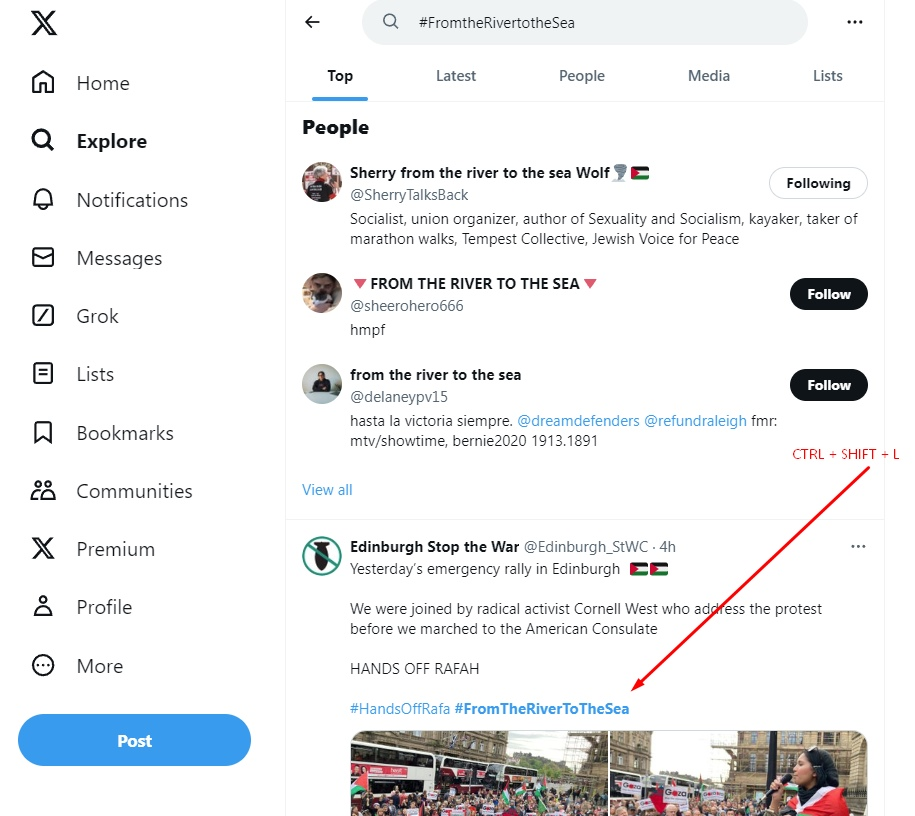
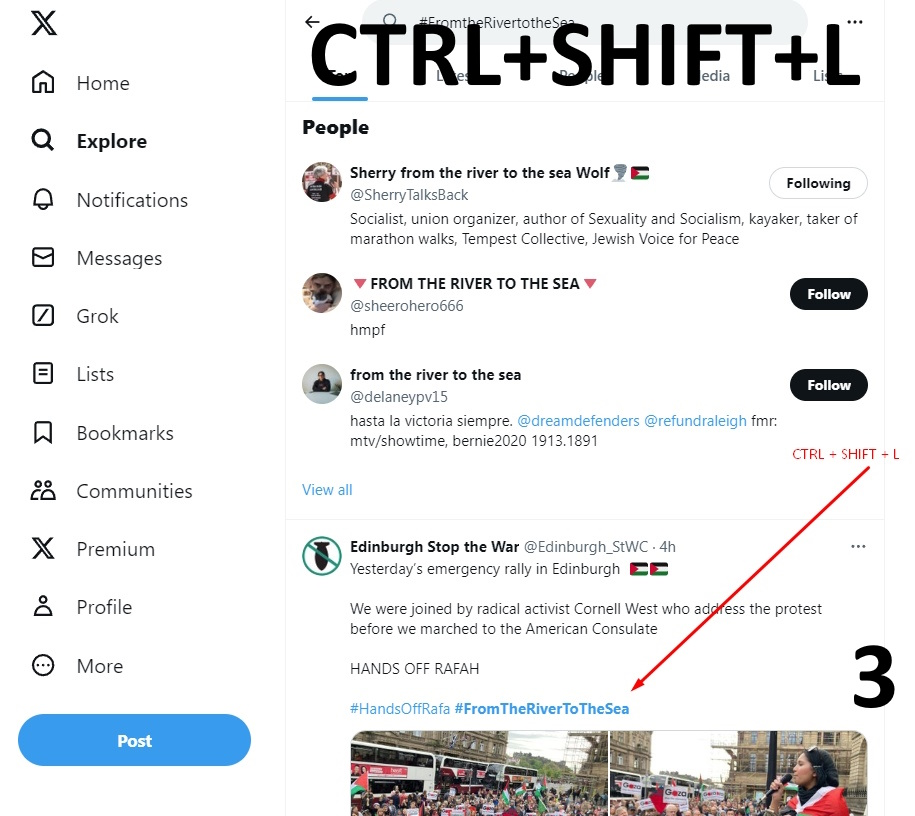
update readme

Changed region(s): [[0.3366, 0.0306, 0.9486, 0.1225], [0.918, 0.7659, 0.9792, 0.8885]]

diff --git a/README.md b/README.md
@@ -32,14 +32,16 @@ The [IsraReplyGPT Chrome Extension](https://chrome.google.com/webstore/detail/is
 - More Links: [Learn more about our mission](https://linke.to/IsraReplyGPT)
 - Privacy Policy - [Read here](https://docs.google.com/document/d/1-0j2NJLGu-5LMA-4PSNVRjfiqBzUq0nLjFJbuPoCUHA/edit?usp=sharing)
 
-## How it works?
+## How to set the API key?
 1. Obtain your OpenAI API key [here](https://platform.openai.com/account/api-keys) (requires a paid account).
 2. Enter your API key in the config section.
 3. Navigate to https://x.com.
 4. Use the shortcut CTRL+SHIFT+L.
 5. Click on the generated reply to send it.
-
 ![api_key](./chrome_img/generate_api_key.gif)
+
+## How to use inside twitter?
+![image](./src/images/Isra-Reply-how-to.gif)
 
 ## Demo
 Watch our extension in action, providing powerful advocacy with precision:
